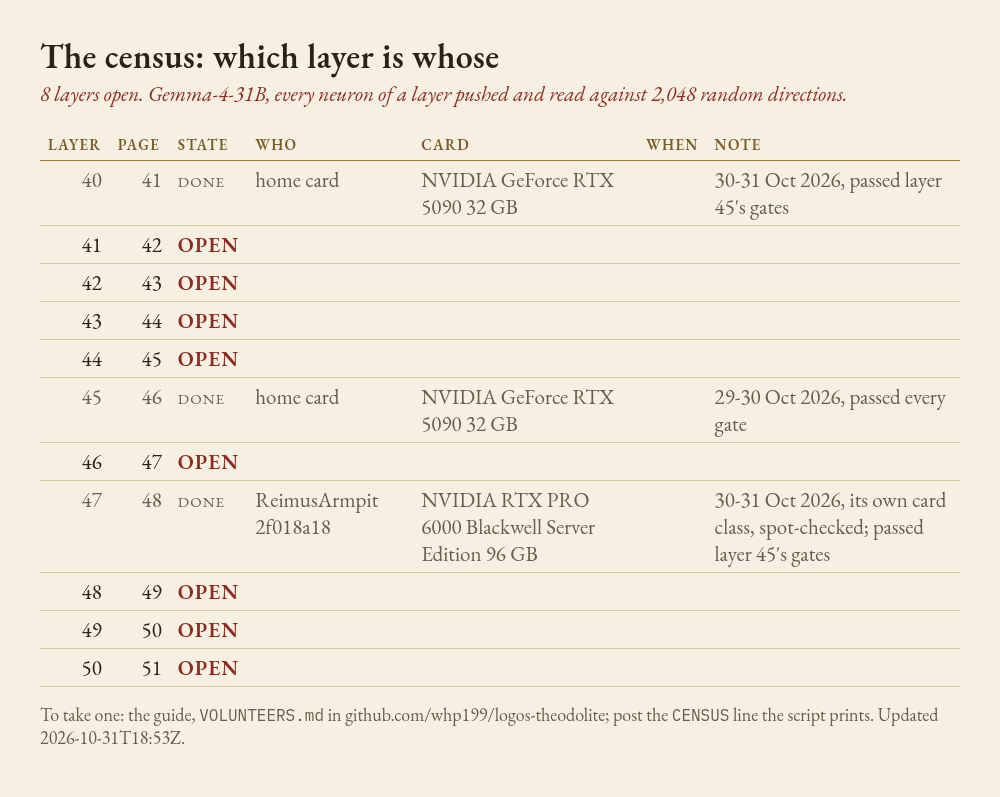
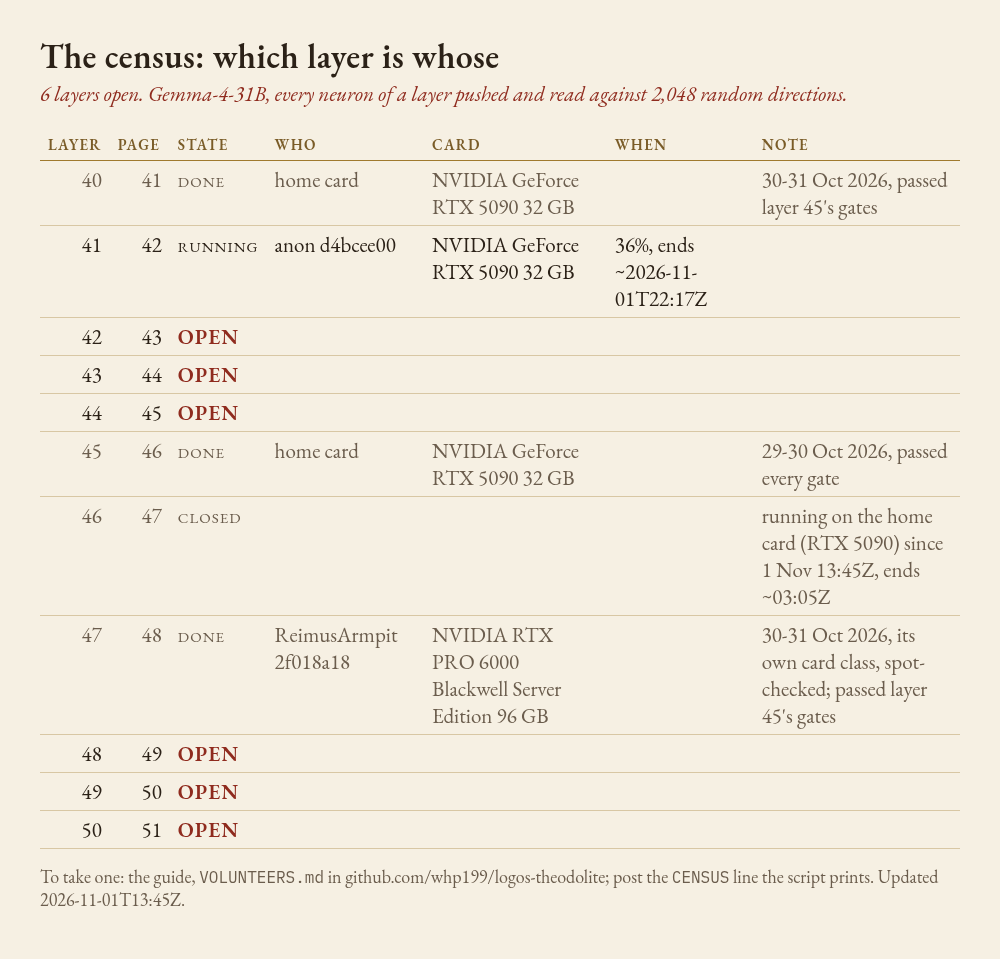
Board: layer 41 running for a volunteer on an RTX 5090 (claim d4bcee00, the home card's bits), and layer 46 taken by the home card
The volunteer's layer-41 canary, fetched and compared here, is the home card's bit for bit (64 answers, every field;
fingerprint 96b883ee...), so the run is checked bit for bit. Their corrected START (bits=home) is applied; a second
DONE for layer 47 (a backup link) is refused, that claim being accepted.

diff --git a/volunteers/BOARD.md b/volunteers/BOARD.md
@@ -5,12 +5,12 @@ Kit 1 (census-kit-1). How to take a layer: [VOLUNTEERS.md](https://github.com/wh
 | Layer | Page | State | Who | Card | When | Note |
 |---:|---:|---|---|---|---|---|
 | 40 | 41 | done | home card | NVIDIA GeForce RTX 5090 32 GB |  | 30-31 Oct 2026, passed layer 45's gates |
-| 41 | 42 | OPEN |  |  |  |  |
+| 41 | 42 | running | anon d4bcee00 | NVIDIA GeForce RTX 5090 32 GB | 36%, ends ~2026-11-01T22:17Z |  |
 | 42 | 43 | OPEN |  |  |  |  |
 | 43 | 44 | OPEN |  |  |  |  |
 | 44 | 45 | OPEN |  |  |  |  |
 | 45 | 46 | done | home card | NVIDIA GeForce RTX 5090 32 GB |  | 29-30 Oct 2026, passed every gate |
-| 46 | 47 | OPEN |  |  |  |  |
+| 46 | 47 | closed |  |  |  | running on the home card (RTX 5090) since 1 Nov 13:45Z, ends ~03:05Z |
 | 47 | 48 | done | ReimusArmpit 2f018a18 | NVIDIA RTX PRO 6000 Blackwell Server Edition 96 GB |  | 30-31 Oct 2026, its own card class, spot-checked; passed layer 45's gates |
 | 48 | 49 | OPEN |  |  |  |  |
 | 49 | 50 | OPEN |  |  |  |  |
@@ -20,4 +20,4 @@ Judged:
 
 - L47 ReimusArmpit 2f018a18: accepted (30-31 Oct 2026, its own card class, spot-checked passed layer 45s gates)
 
-Holds: 36 h after RESERVE to START; then the run's end time (from PROGRESS) plus 24 h; at most 10 days in all. Updated 2026-10-31T18:53Z.
+Holds: 36 h after RESERVE to START; then the run's end time (from PROGRESS) plus 24 h; at most 10 days in all. Updated 2026-11-01T13:45Z.
